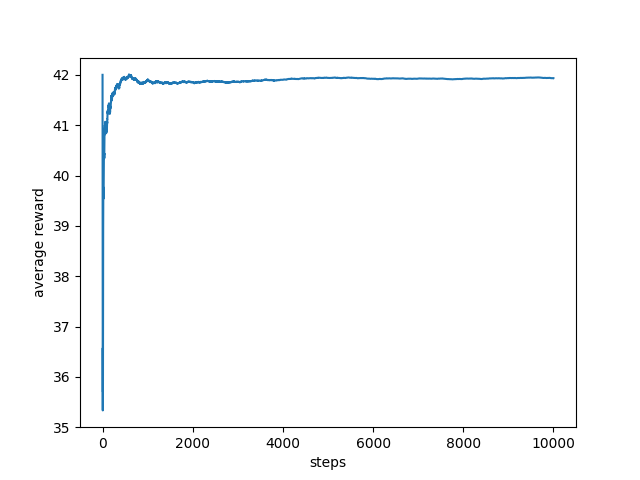
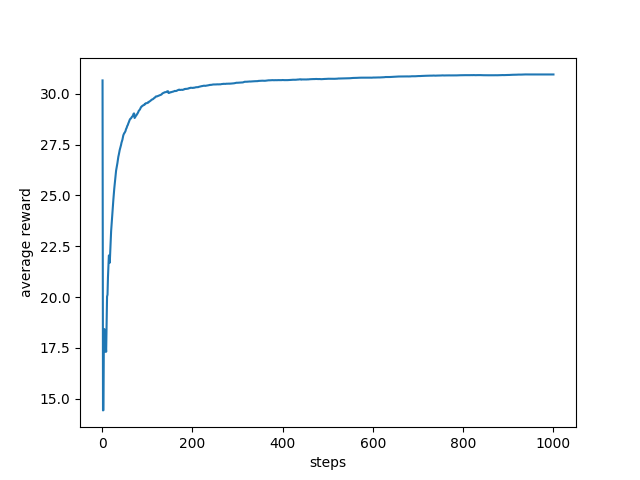
Completed chapter02

diff --git a/CH2/sample-bandit-algorithm.py b/CH2/sample-bandit-algorithm.py
@@ -16,30 +16,51 @@ class SampleMachine:
     Otherwise select the option with largest estimated reward.
     """
 
-    def __init__(self, eps=0.1, c=2, arm_num=10, params=(20, 50, 5),
-                 gen_fig=False, ucb_used=False):
+    def __init__(self, eps=0, alpha=0.1, c=2, arm_num=10, params=(10, 10, 1),
+                 gen_fig=True, method_used='', incremental_update=False, baseline=False):
         self.q = [0] * arm_num
         self.n = [0] * arm_num
         self.r = []
         self.options_count = arm_num
         self.eps = eps
+        self.alpha = alpha
         self.c = c
         self.gen_fig = gen_fig
-        self.ucb_used = ucb_used
+        # Method: ucb, gradient
+        self.method_used = method_used.lower()
+        self.incremental_update = incremental_update
+        self.baseline = baseline
         self.runs = 0
         self.avg_r = 0
         self.best_action_count = 0
-        self.record = {"q": [], "n": [], "bac": [], "avg_r": []}
+        self.action_prob = [0] * arm_num
+        self.record = {"q": [], "n": [], "bac": [], "avg_r": [], "r": []}
 
         self.bandit_machine = MultiArmBandit(arm_num=arm_num, params=params)
-        # self.best_action = self.bandit_machine.find_best_action()
+        self.check_inputs()
 
-    def act_eps_greedy(self):
+    def check_inputs(self):
+        if self.incremental_update and self.baseline:
+            print("Can not simultaneously apply: <incremental update> & <baseline>")
+            quit()
+
+        if self.method_used != "ucb" and self.method_used != "gradient" and self.method_used != '':
+            print(f"Can recognize method: {self.method_used}")
+            quit()
+
+        if self.method_used == "ucb" or self.method_used == "gradient":
+            self.eps = 0
+
+    def act(self):
         """Act based on possibilities, return the index of the chosen option"""
-        if np.random.random() >= self.eps:
-            return self._random_max_index(self.q)
+        if np.random.random() < self.eps:
+            return np.random.choice(np.arange(self.options_count))
+        elif self.method_used == 'ucb':
+            return self.act_ucb()
+        elif self.method_used == 'gradient':
+            return self.act_gradient()
         else:
-            return np.random.randint(0, self.options_count)
+            return self._random_max_index(self.q)
 
     def act_ucb(self):
         """Return the index of the largest ucb value"""
@@ -48,37 +69,49 @@ class SampleMachine:
             ucb_q[i] = self.q[i] + self.c * np.sqrt(np.log(self.runs) / (self.n[i] + 1e-5))
         return self._random_max_index(ucb_q)
 
+    def act_gradient(self):
+        exp_p = np.exp(self.q)
+        self.action_prob = exp_p / np.sum(exp_p)
+        return np.random.choice(np.arange(self.options_count), p=self.action_prob)
+
     def step(self, curr_arm):
         """Perform an act and update parameters"""
         if curr_arm == self.bandit_machine.find_best_action():
             self.best_action_count += 1
         self.r.append(self.bandit_machine.bandit(curr_arm))
-        self.avg_r = sum(self.r)/self.runs
+        self.avg_r += (self.r[-1] - self.avg_r) / self.runs
         self.n[curr_arm] += 1
-        self.q[curr_arm] += (self.r[-1] - self.q[curr_arm]) / self.n[curr_arm]
+        if self.incremental_update:
+            self.q[curr_arm] += self.alpha * (self.r[-1] - self.q[curr_arm])
+        elif self.baseline:
+            one_hot = np.zeros(self.options_count)
+            one_hot[curr_arm] = 1
+            baseline = self.avg_r
+            self.q += self.alpha * (self.r[-1] - baseline) * (one_hot - self.action_prob)
+        else:
+            self.q[curr_arm] += (self.r[-1] - self.q[curr_arm]) / self.n[curr_arm]
 
     def simulate(self, runs=1000):
         """Simulate, count and return how many times each option is chosen."""
-        for i in trange(runs):
+        for _ in trange(runs):
             self.runs += 1
-            if self.ucb_used:
-                curr_arm = self.act_ucb()
-            else:
-                curr_arm = self.act_eps_greedy()
+            curr_arm = self.act()
             self.step(curr_arm)
             self._record_data()
 
     def disp_result(self):
         """Output result to user"""
-        result_distribution = (np.array(self.n)/self.runs).tolist()
-        result_distribution = [float('%.2f' % elem) for elem in result_distribution]
-        q = [float('%.2f' % elem) for elem in self.q]
+        result_distribution = (np.array(self.n) / self.runs).tolist()
+        result_distribution = [float('%.1f' % (elem * 100)) for elem in result_distribution]
+        q = [float('%.1f' % elem) for elem in self.q]
+        bandit_machine_arms = [float('%.1f' % elem) for elem in self.bandit_machine.arms]
 
-        print(f"Iter: {self.runs}, \u03B5 = {self.eps}: {self.eps}")
-        print(f"Actions: {self.n}")
-        print(f"Distribution: {result_distribution}")
+        print(f"Method: {self.method_used}")
+        print(f"Iter: {self.runs}, \u03B5 = {self.eps}, \u03B1 = {self.alpha}")
+        print(f"Actions:          {self.n}")
+        print(f"Distribution(%):  {result_distribution}")
         print(f"Quality estimate: {q}")
-        print(f"Actually quality: {self.bandit_machine.arms}")
+        print(f"Actually quality: {bandit_machine_arms}")
 
         if self.gen_fig:
             steps = [i + 1 for i in range(self.runs)]
@@ -108,17 +141,8 @@ class SampleMachine:
         self.record["avg_r"].append(self.avg_r)
 
     def _random_max_index(self, values):
-        max_val = np.max(values)
-        i, ind = 0, []
-        for val in values:
-            if val == max_val:
-                ind.append(i)
-            i = i + 1
-        if len(ind) > 1:
-            ind = np.random.choice(ind)
-        else:
-            ind = ind[0]
-        return ind
+        q_best = np.max(values)
+        return np.random.choice(np.where(values == q_best)[0])
 
 
 class MultiArmBandit:
@@ -129,21 +153,21 @@ class MultiArmBandit:
     def __init__(self, arm_num, params):
         self.arm_num = arm_num
         self.arms = [0] * arm_num
-        # params = (lower boundary, upper boundary, standard division) of arm results
-        self.lower_bound = params[0]
-        self.upper_bound = params[1]
+        # params = (mean, std of arm value, standard division of arm output)
+        self.mean = params[0]
+        self.std = params[1]
         self.range = params[2]
         self._init_arm_params()
 
     def _init_arm_params(self):
         """Generate arm parameters"""
         for i in range(self.arm_num):
-            self.arms[i] = np.random.randint(self.lower_bound, self.upper_bound)
+            self.arms[i] = np.random.normal(self.mean, self.std)
 
     def bandit(self, arm_pressed):
         """Return result of arm_pressed"""
         arm_param = self.arms[arm_pressed]
-        return np.random.randint(arm_param - self.range, arm_param + self.range + 1)
+        return np.random.normal(arm_param, self.range)
 
     def find_best_action(self):
         """Return arm with highest reward"""
@@ -151,6 +175,7 @@ class MultiArmBandit:
 
 
 if __name__ == "__main__":
-    test_machine = SampleMachine(gen_fig=True, ucb_used=True)
-    test_machine.simulate(runs=10000)
+    test_machine = SampleMachine(gen_fig=True, method_used='gradient', incremental_update=False,
+                                 baseline=True)
+    test_machine.simulate(runs=1000)
     test_machine.disp_result()
